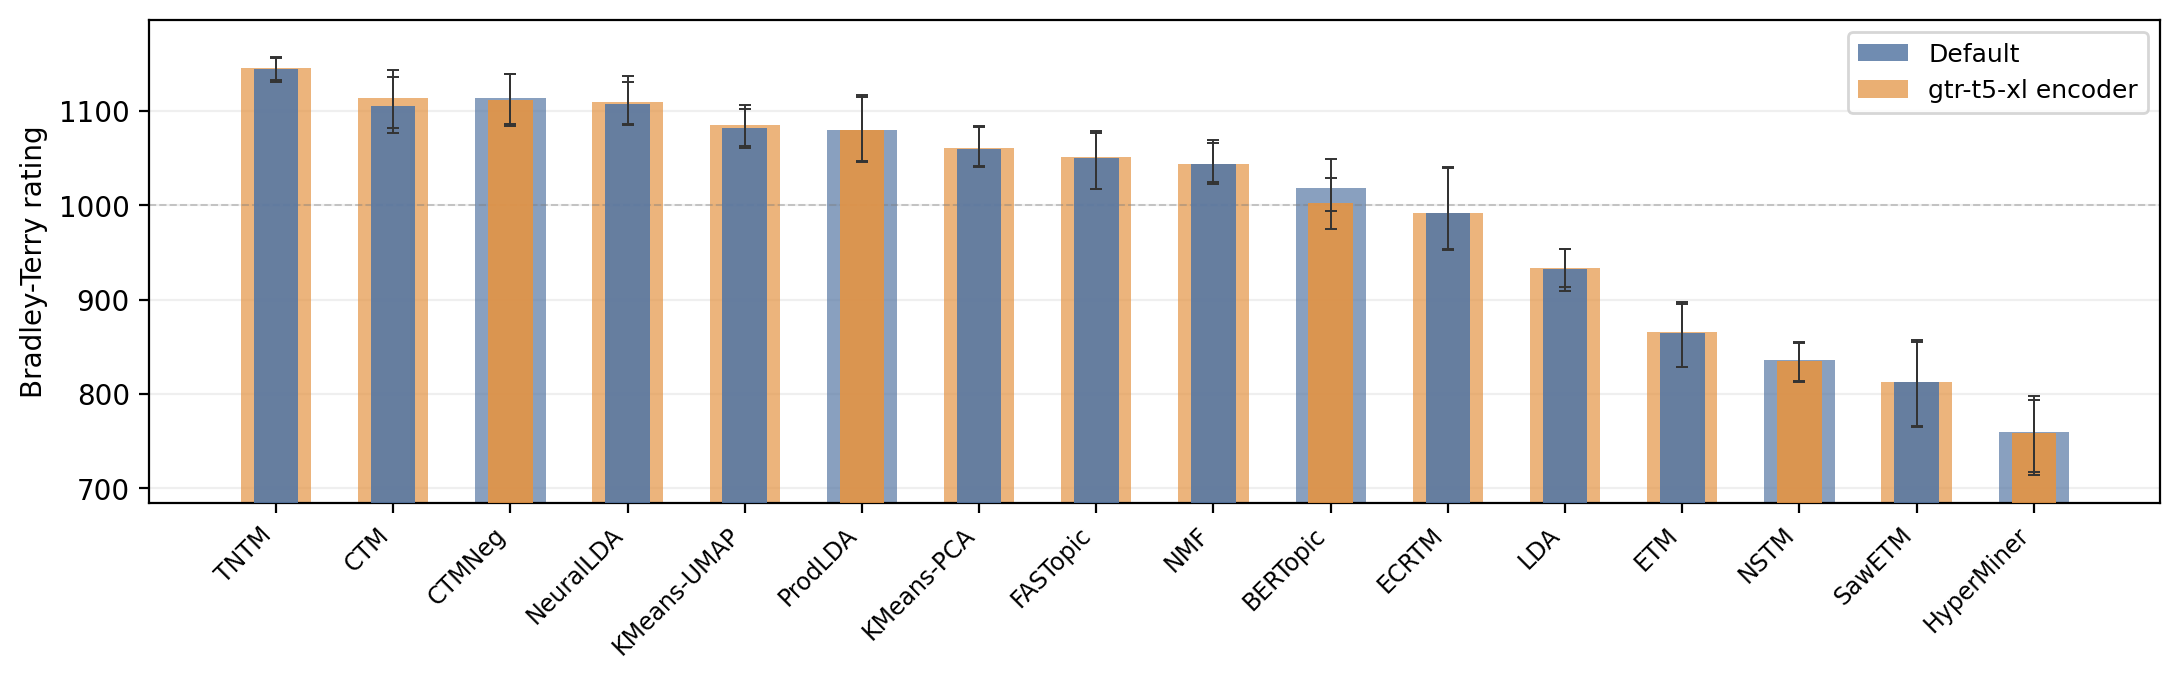
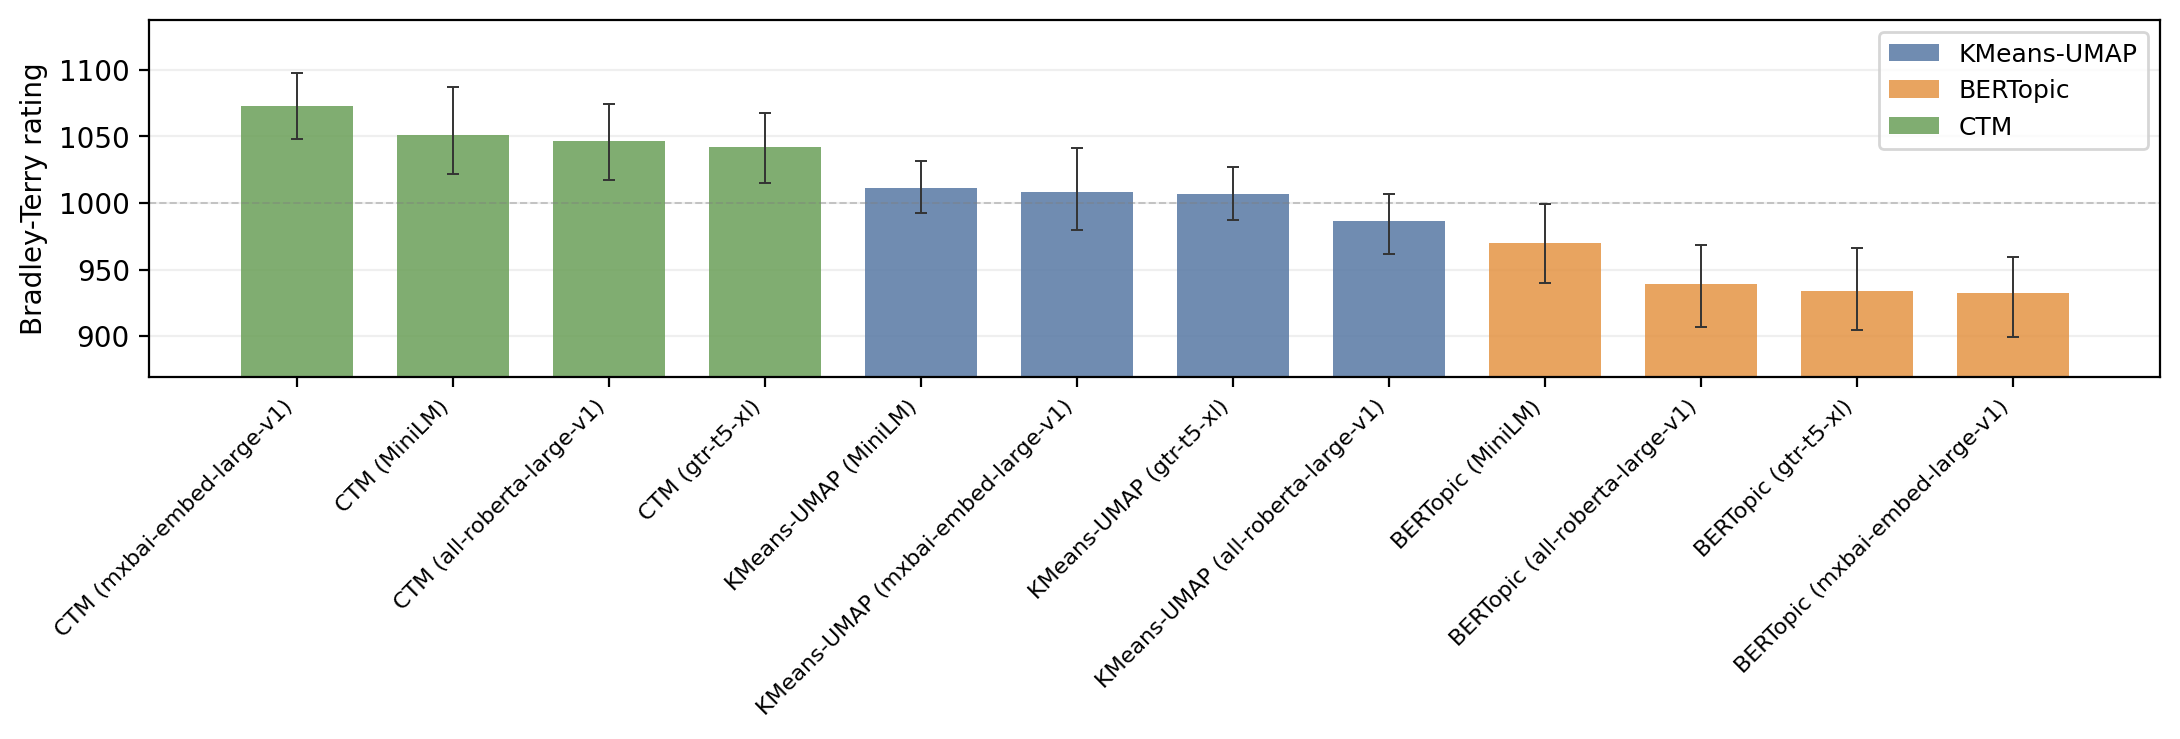
README plots: order HPO bars by best-of-both variants; rebuild embedding BT as per-(model,encoder) ranking
- bt_default_vs_v7/v8 ordered by each model's better variant (default vs HPO)
- bt_default_vs_embedding: single BT ranking with each model once per encoder
  (colored by model) — variants cluster by model, encoder does not change rank

diff --git a/README.md b/README.md
@@ -108,10 +108,11 @@ conclusions:
   <img src="./assets/bt_default_vs_embedding.png" width="900"/>
 </div>
 
-  *Bradley–Terry ratings (default runs, 8 automated metrics), baseline
-  `all-MiniLM-L6-v2` vs. the 1.24B `gtr-t5-xl` encoder. The 13 non-embedding models
-  are encoder-invariant by construction; only the three embedding-dependent models
-  can move, and they barely do — the leaderboard is unchanged.*
+  *Bradley–Terry ratings (default runs, 8 automated metrics) for each
+  embedding-dependent model under every encoder — each model appears once per
+  encoder (bars colored by model). The four encoder variants of a model cluster
+  tightly, and the rank is set by the **model**, not the encoder: CTM's variants
+  top the group, then KMeans-UMAP, then BERTopic, regardless of encoder.*
 
   | Encoder | Params | KMeans-UMAP *Cᵥ* | BERTopic *Cᵥ* | CTM *Cᵥ* |
   |---|---:|---:|---:|---:|
